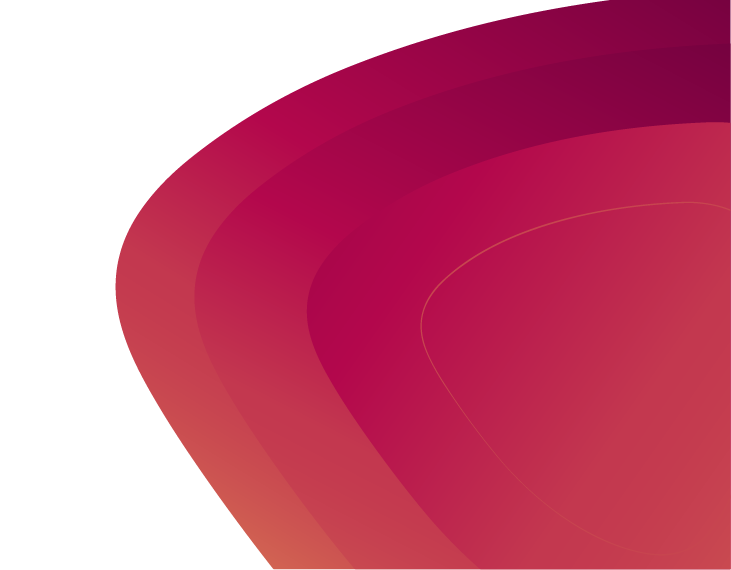
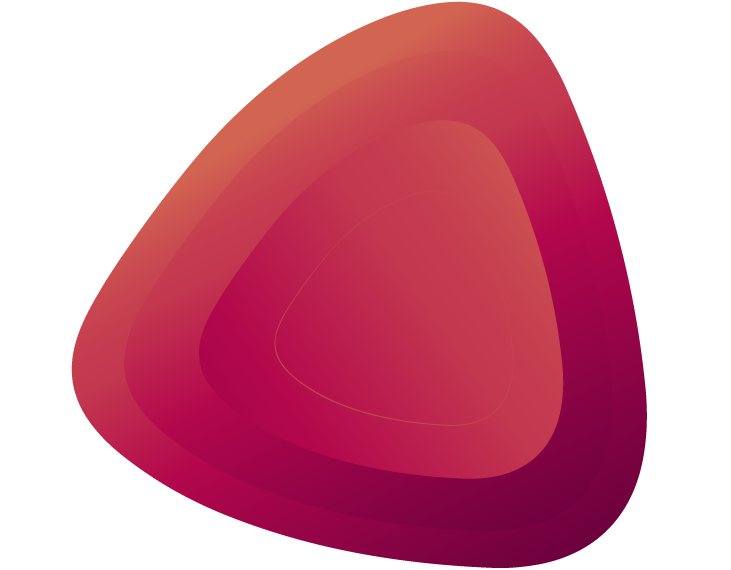
ad imgs

diff --git a/src/components/HomeSections/Reviews.jsx b/src/components/HomeSections/Reviews.jsx
@@ -67,14 +67,25 @@ export default function Reviews() {
   return (
     <section
       id="reviews"
-      className="relative pt-14 sm:pt-16 md:pt-20 lg:pt-[100px] pb-10 sm:pb-12 md:pb-[70px] px-4 sm:px-8 md:px-16 lg:px-28 xl:px-52"
+      className="relative pt-14 sm:pt-16 md:pt-20 lg:pt-[100px] pb-10 sm:pb-12 md:pb-[70px]  px-4 sm:px-8 md:px-16 lg:px-28 xl:px-52"
       dir={isRTL ? 'rtl' : 'ltr'}
-      style={{
-        backgroundImage: isRTL ? 'url(img/bg/easy-m-bg.png)' : 'url(img/bg/client-bg.png)',
-        backgroundRepeat: 'no-repeat',
-        backgroundPosition: isRTL ? 'left center' : 'right center',
-      }}
+      // style={{
+      //   backgroundImage: isRTL ? 'url(img/bg/easy-m-bg.png)' : 'url(img/bg/client-bg.png)',
+      //   backgroundRepeat: 'no-repeat',
+      //   backgroundPosition: isRTL ? 'left center' : 'right center',
+      // }}
     >
+    <div
+        className={`"hidden lg:block absolute top-[5%] ${isRTL?'-left-50':'-right-50'} w-72 lg:w-[500px] xl:w-[1038px] h-[400px] lg:h-[500px] bg-no-repeat bg-center"`}
+        style={{
+          backgroundImage: isRTL ? 'url(img/bg/easy-m-bg.png)' : 'url(img/bg/client-bg.png)',
+          backgroundSize: '100%',
+          backgroundPosition: isRTL?'left center':'right center',
+          backGroundRepeat: 'no-repeat', 
+                  backgroundSize: 'contain',
+
+        }}
+      />
       <div className="container mx-auto px-0 sm:px-4">
         <div className="flex flex-wrap">
 

diff --git a/src/components/HomeSections/DownloadApp.jsx b/src/components/HomeSections/DownloadApp.jsx
@@ -21,10 +21,14 @@ export default function DownloadApp() {
     >
       {/* ── Phone background image (hidden on small screens) ── */}
       <div
-        className="hidden lg:block absolute top-[9%] left-0 w-72 lg:w-[500px] xl:w-[738px] h-[400px] lg:h-[569px] bg-no-repeat bg-center"
+        className="hidden lg:block absolute top-[5%] -left-50 w-72 lg:w-[500px] xl:w-[1038px] h-[400px] lg:h-[500px] bg-no-repeat bg-center"
         style={{
           backgroundImage: 'url(img/bg/easy-m-bg.png)',
           backgroundSize: '100%',
+          backgroundPosition: 'left center',
+          backGroundRepeat: 'no-repeat', 
+                  backgroundSize: 'contain',
+
         }}
       />
 

diff --git a/src/components/HomeSections/ContactSection.jsx b/src/components/HomeSections/ContactSection.jsx
@@ -27,7 +27,7 @@ export default function ContactSection() {
           <div className="w-full lg:w-1/2 px-4 mb-10 lg:mb-0">
             <div className={`${isRTL ? 'mr-0 ml-[-160px]' : 'ml-[-160px] mr-0'} max-lg:ml-0 max-lg:mr-0`}>
               <img
-                src="img/bg/illustration.png"
+                src={isRTL?"img/bg/illustration.png":"img/bg/illustrationTr.png"}
                 alt="contact illustration"
                 className="w-full max-w-[500px] mx-auto lg:mx-0"
               />
